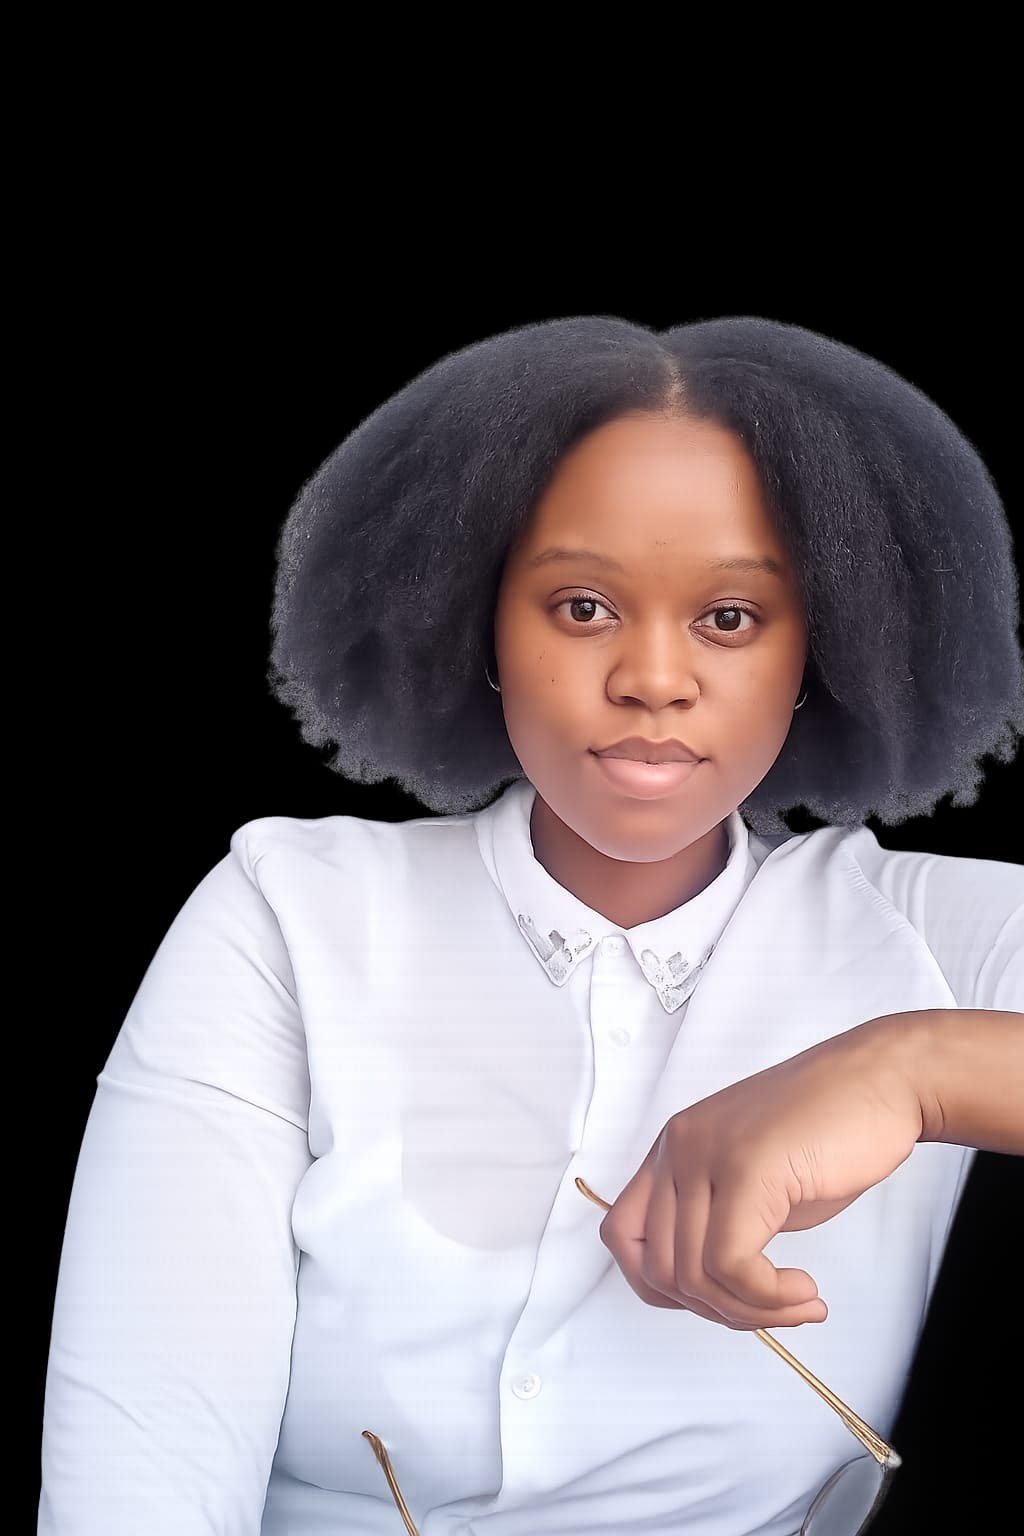
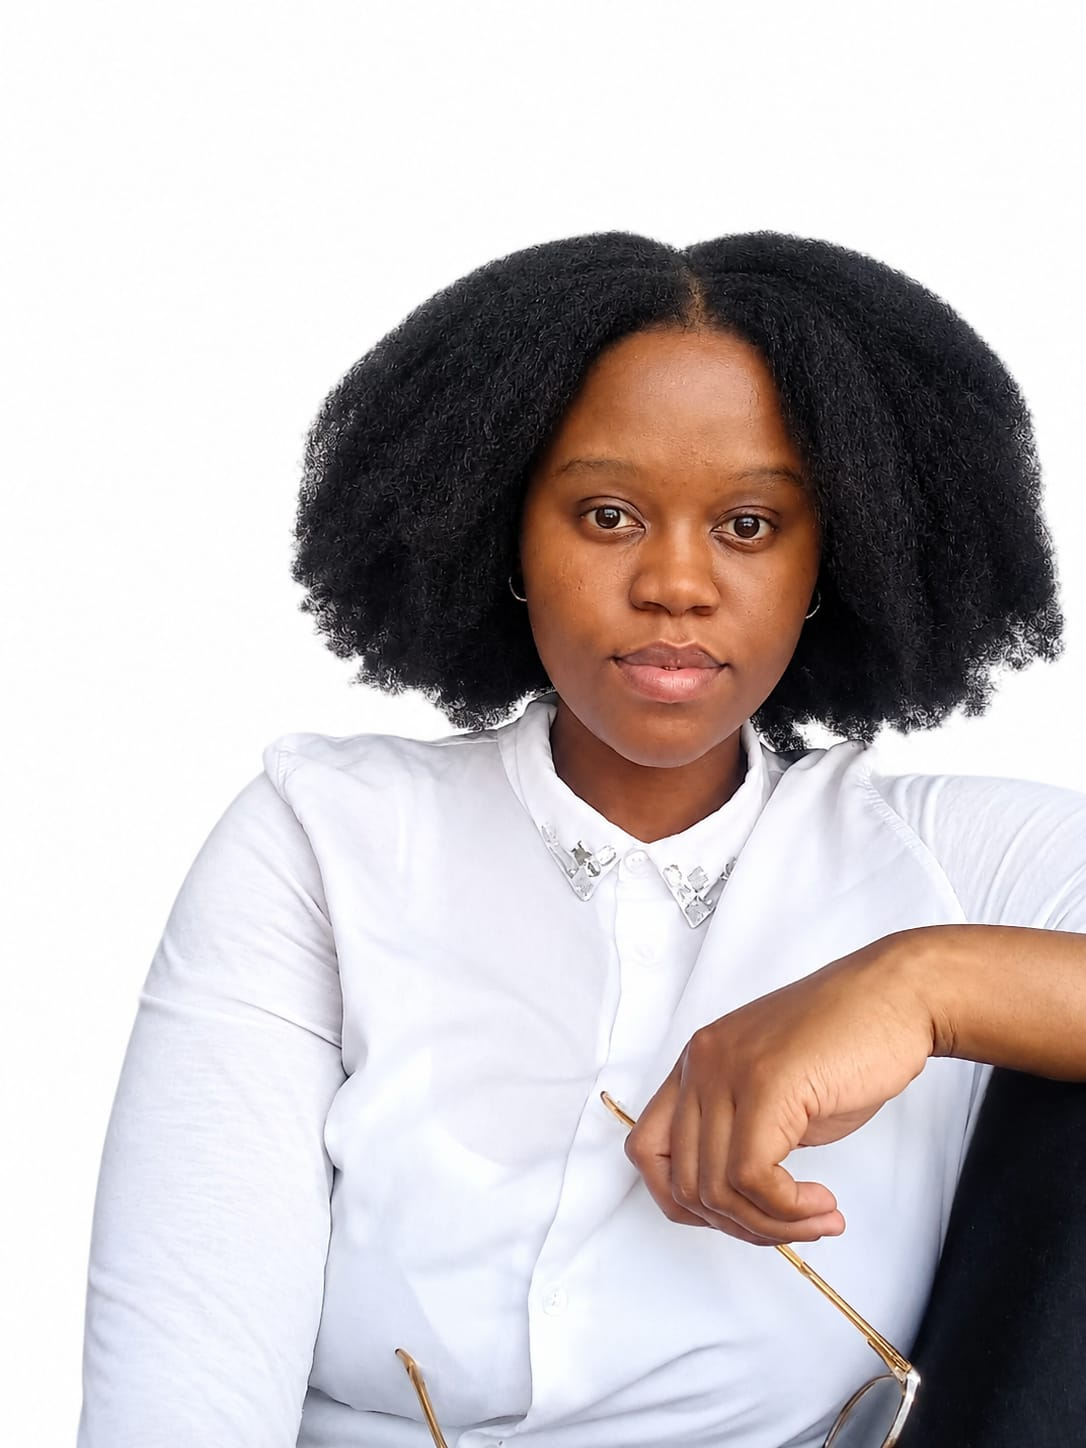
Editing Work page

diff --git a/work.html b/work.html
@@ -23,25 +23,25 @@
 </head>
 <body>
     <div class = "content-container container">
-        <div class="row">
-          <div class="col-sm-6 ">
+  
     <div class = "content">
         
-   <h1 class="about-heading mb-4 ">Hi, I am <strong>Khanyisile Makhubu</strong></h1>
-  
-   <h2 class="mb-3 ">A Software Developer from South Africa</h2>
-   
-    <p >I am a passionate software developer with a strong foundation in web development 
-        and a keen interest in creating innovative solutions.</p>
-        
-   <a href ="#" class="btn btn-branding mt-4">See my Projects</a>
-    </div>
-          </div>
-   
-   <div class ="col-md-6">
-   <img src ="images/headshot.jpeg" class="main-image img-fluid rounded image mt-5 mb-5" alt="main image"/>
+   <h1 class="about-heading mb-4 ">Take a look at what I have been working on !</h1>
+   <div class = "row" > 
 
-    </div>
+     <div class ="col-6  backdrop"><img src="images/AI-Recipe.png" class="img-fluid rounded d-none d-sm-block image" alt="AI-recipe"  /> <div class="project-caption">AI Recipe Project</div>
+      <div class="project-built-with"> Built with HTML CSS JavaScript AI API  </div></div> 
+
+         <div class ="col-6 "><img src="images/weather.png" class="img-fluid rounded d-none d-sm-block image" alt="weather"  /> 
+            <div class="project-caption">Weather App Project</div> <div class="project-built-with"> Built with HTML CSS JavaScript Weather API   </div></div> 
+         
+</div>
+<div class = "row" > 
+     <div class ="col-6 "><img src="images/time-zone.png" class="img-fluid rounded d-none d-sm-block image" alt="world-clock"  /> <div class="project-caption">World Clock</div> <div class="project-built-with"> Built with HTML CSS JavaScript Moment API  </div></div> 
+         <div class ="col-6 backdrop"><img src="images/Poem Generator.png" class="img-fluid rounded d-none d-sm-block image" alt="poem Generator"  /> <div class="project-caption">Poem Generator</div> <div class="project-built-with"> Built with HTML CSS JavaScript AI API  </div></div> 
+         
+</div>
+     
     </div>  
     </div>
 </body>

diff --git a/src/style.css b/src/style.css
@@ -24,6 +24,7 @@ p{
     font-family: var(--heading-font);
     font-weight: normal;
     margin:0;
+    font-size: larger;
 }
 .hero{
     background:var(--secondary-color);
@@ -62,19 +63,39 @@ p{
     font-size: 20px;
     margin-top: 20px;
 }
-.about-section{
+.content-container{
     padding :10px ;
 }
-.about-section h1{
+.content-container h1{
     font-size: 54px;
     line-height: 80px;
     padding: 75px 10px;
 }
-.about-section p{
+.content-container p{
     font-size: 30px;
     font-family: var(--default-font);
 }
-/* .about-section-content{
+.project-caption{
+    font-size: 20px;
+    font-family: Arial, Helvetica, sans-serif;
+    font-weight: bold;
+    margin: 30px;
+    /* margin-bottom: 20px; */
+
+}
+.project-built-with{
+    font-size: medium;
+    color: #5c5a5a;
+    font-family:var(--default-font);
+    font-size: medium;
+    margin: 30px;
+}
+.backdrop{
+    background-color: var(--secondary-color);
+    padding: 10px 5px;
+   
+}
+/* .content-containerc ontent{
   margin:15px; 
 } */
 @media (max-width: 900px) {
@@ -88,7 +109,7 @@ p{
     padding:80px 20px;
 
    }
-   .about-section{
+   .content-container{
     text-align: center;
     padding: 0;
     
@@ -98,7 +119,7 @@ p{
 }  
 @media (max-width: 600px) {
    
-    .about-section h1{
+    .content-container h1{
         font-size: 50px;
         /* line-height: 30px; */
         padding: 30px 10px;
